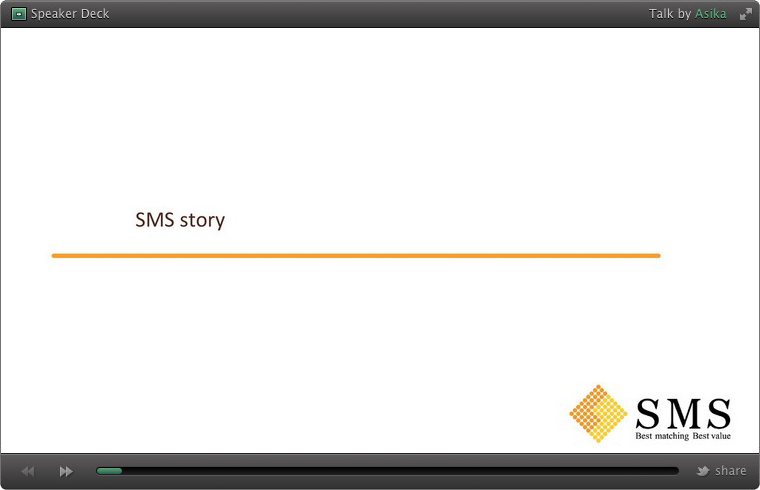
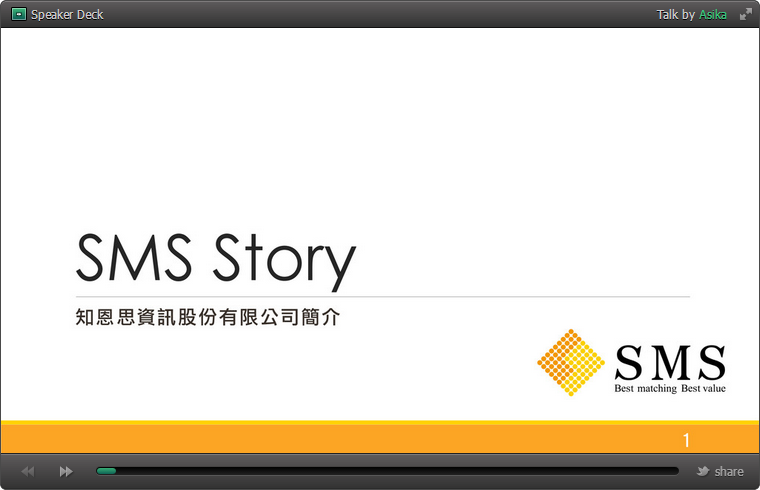
update ppt and cover image

diff --git a/js/main.min.js b/js/main.min.js
@@ -42,4 +42,4 @@ window.google=window.google||{};google.maps=google.maps||{};(function(){function
  * Date: 2013
  * SMS Taiwan CO. LTD.
  */
-;var debug=false;var option={address:"臺北市松山區南京東路五段356號15樓之1"};var SMS=({init:function(a){if(!this.isMobile()){this.scrollspy();this.parallaxScroll()}this.smoothScroll();this.loadGoogleMap(a.address);return this},isMobile:function(){var a={win:false,mac:false,xll:false};var b=navigator.platform;a.win=b.indexOf("Win")==0;a.mac=b.indexOf("Mac")==0;a.x11=(b=="X11")||(b.indexOf("Linux")==0);if(a.win||a.mac||a.xll){return false}return true},activeNav:function(c){var a=$("#sr-nav li");var b=a.find("a[href=#"+c+"]");a.removeClass("uk-active");b.parent().addClass("uk-active")},scrollspy:function(){window.onload=function(){$("[sr-scrollspy]").each(function(a,b){var c=$(b).attr("id");$(b).scrollspy({min:$(b).offset().top,max:$(b).offset().top+100,onEnter:function(e,d){SMS.activeNav(c);if(debug){console.log("in: "+c)}},onLeave:function(e,d){if(debug){console.log("out: "+c)}}})})}},smoothScroll:function(){jQuery(document).ready(function(){$("a").each(function(a,b){var c=$(this).attr("href").replace("#","");$(this).smoothScroll({preventDefault:true,speed:2500,afterScroll:function(e,d){SMS.activeNav(c);window.location.hash="#"+c}})})})},parallaxScroll:function(){jQuery(document).ready(function(){setTimeout(function(){var a=skrollr.init()},1000)})},loadGoogleMap:function(a){jQuery(document).ready(function(b){b("#contact-map").gmap3({map:{options:{center:[25.05037541867259,121.57889975616779],zoom:16,mapTypeId:"style2",mapTypeControlOptions:{mapTypeIds:[google.maps.MapTypeId.ROADMAP,"style2"]},scrollwheel:false,control:false,mapTypeControl:false,navigationControl:false,scaleControl:false,zoomControl:false,disableDefaultUI:true}},marker:{values:[{address:a,data:a}],events:{mouseover:function(c,e,d){var g=b(this).gmap3("get"),f=b(this).gmap3({get:{name:"infowindow"}});if(f){f.open(g,c);f.setContent(d.data)}else{b(this).gmap3({infowindow:{anchor:c,options:{content:d.data}}})}},mouseout:function(){var c=b(this).gmap3({get:{name:"infowindow"}});if(c){c.close()}}}}},{styledmaptype:{id:"style2",options:{name:"Style 2"},styles:[{stylers:[{saturation:-30}]},{featureType:"road",elementType:"geometry",stylers:[{lightness:100},{visibility:"simplified"}]},{featureType:"road",elementType:"labels",stylers:[{visibility:"simplified"}]}]}})})}}).init(option);jQuery(window).ready(function(){var a='<script async class="speakerdeck-embed" data-id="77019440f10101301781068b5f277cba" data-ratio="1.77777777777778" src="//speakerdeck.com/assets/embed.js"><\/script>';$("#sr-about-ppt img").click(function(c){var b=$(this);var d=$(a);b.parent().append(d);b.remove()})});jQuery(window).ready(function(){setTimeout(function(){$("body").css("height","auto")},2000)});
+;var debug=false;var option={address:"臺北市松山區南京東路五段356號15樓之1"};var SMS=({init:function(a){if(!this.isMobile()){this.scrollspy();this.parallaxScroll()}this.smoothScroll();this.loadGoogleMap(a.address);return this},isMobile:function(){var a={win:false,mac:false,xll:false};var b=navigator.platform;a.win=b.indexOf("Win")==0;a.mac=b.indexOf("Mac")==0;a.x11=(b=="X11")||(b.indexOf("Linux")==0);if(a.win||a.mac||a.xll){return false}return true},activeNav:function(c){var a=$("#sr-nav li");var b=a.find("a[href=#"+c+"]");a.removeClass("uk-active");b.parent().addClass("uk-active")},scrollspy:function(){window.onload=function(){$("[sr-scrollspy]").each(function(a,b){var c=$(b).attr("id");$(b).scrollspy({min:$(b).offset().top,max:$(b).offset().top+100,onEnter:function(e,d){SMS.activeNav(c);if(debug){console.log("in: "+c)}},onLeave:function(e,d){if(debug){console.log("out: "+c)}}})})}},smoothScroll:function(){jQuery(document).ready(function(){$("a").each(function(a,b){var c=$(this).attr("href").replace("#","");$(this).smoothScroll({preventDefault:true,speed:2500,afterScroll:function(e,d){SMS.activeNav(c);window.location.hash="#"+c}})})})},parallaxScroll:function(){jQuery(document).ready(function(){setTimeout(function(){var a=skrollr.init()},1000)})},loadGoogleMap:function(a){jQuery(document).ready(function(b){b("#contact-map").gmap3({map:{options:{center:[25.05037541867259,121.57889975616779],zoom:16,mapTypeId:"style2",mapTypeControlOptions:{mapTypeIds:[google.maps.MapTypeId.ROADMAP,"style2"]},scrollwheel:false,control:false,mapTypeControl:false,navigationControl:false,scaleControl:false,zoomControl:false,disableDefaultUI:true}},marker:{values:[{address:a,data:a}],events:{mouseover:function(c,e,d){var g=b(this).gmap3("get"),f=b(this).gmap3({get:{name:"infowindow"}});if(f){f.open(g,c);f.setContent(d.data)}else{b(this).gmap3({infowindow:{anchor:c,options:{content:d.data}}})}},mouseout:function(){var c=b(this).gmap3({get:{name:"infowindow"}});if(c){c.close()}}}}},{styledmaptype:{id:"style2",options:{name:"Style 2"},styles:[{stylers:[{saturation:-30}]},{featureType:"road",elementType:"geometry",stylers:[{lightness:100},{visibility:"simplified"}]},{featureType:"road",elementType:"labels",stylers:[{visibility:"simplified"}]}]}})})}}).init(option);jQuery(window).ready(function(){var a='<script async class="speakerdeck-embed" data-id="ddca31a0f5e20130b56b6acaa776c3d3" data-ratio="1.77777777777778" src="//speakerdeck.com/assets/embed.js"><\/script>';$("#sr-about-ppt img").click(function(c){var b=$(this);var d=$(a);b.parent().append(d);b.remove()})});jQuery(window).ready(function(){setTimeout(function(){$("body").css("height","auto")},2000)});

diff --git a/js/main.js b/js/main.js
@@ -201,7 +201,7 @@ var SMS = ({
 
 
 jQuery(window).ready(function(){
-    var ppt = '<script async class="speakerdeck-embed" data-id="77019440f10101301781068b5f277cba" data-ratio="1.77777777777778" src="//speakerdeck.com/assets/embed.js"></script>';
+    var ppt = '<script async class="speakerdeck-embed" data-id="ddca31a0f5e20130b56b6acaa776c3d3" data-ratio="1.77777777777778" src="//speakerdeck.com/assets/embed.js"></script>';
     
     $('#sr-about-ppt img').click(function(event){
         var self = $(this);
